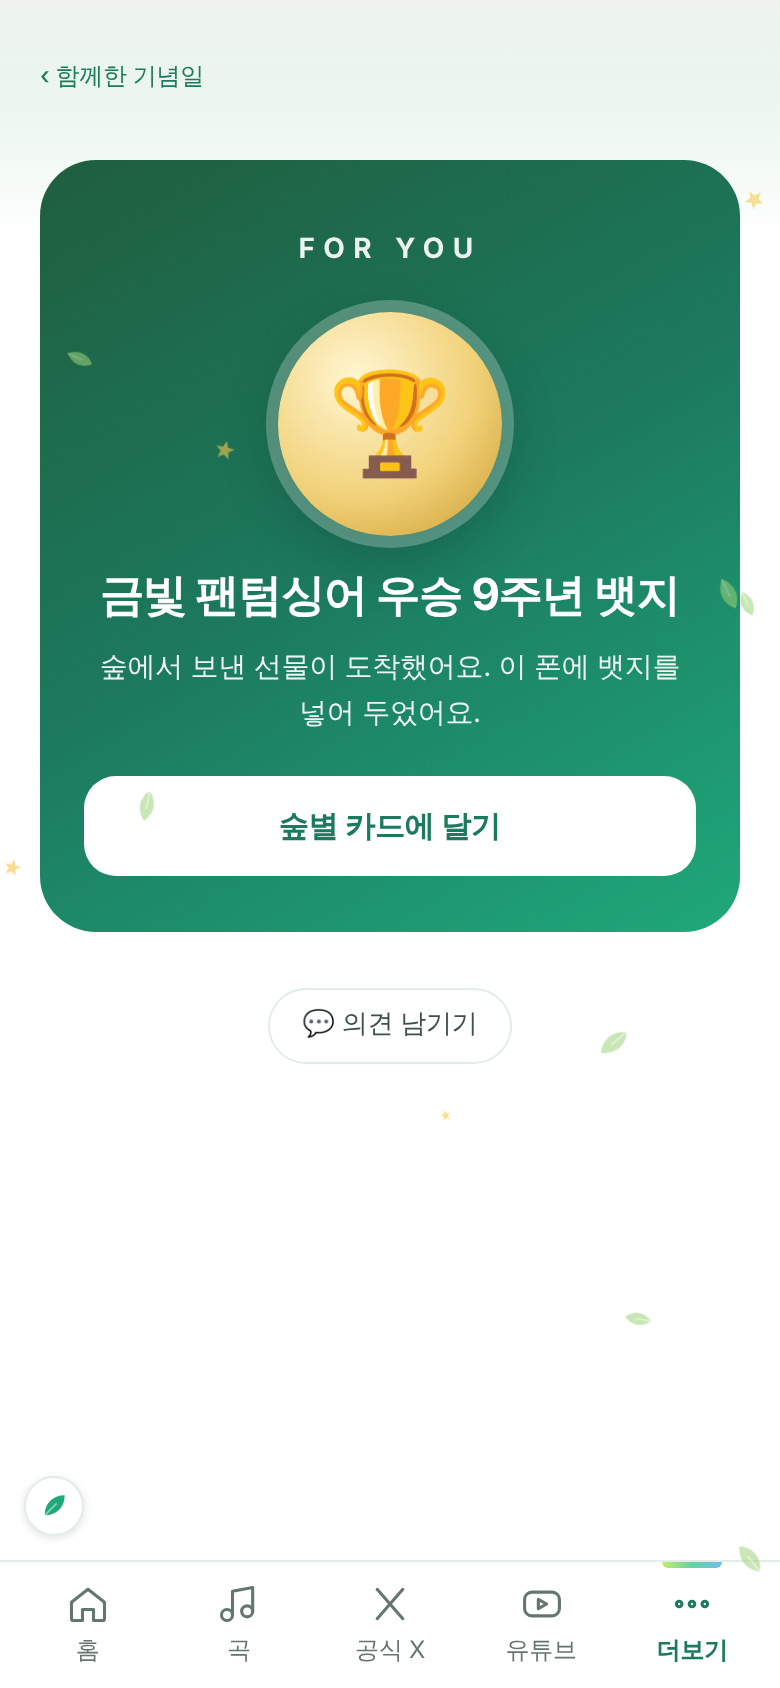
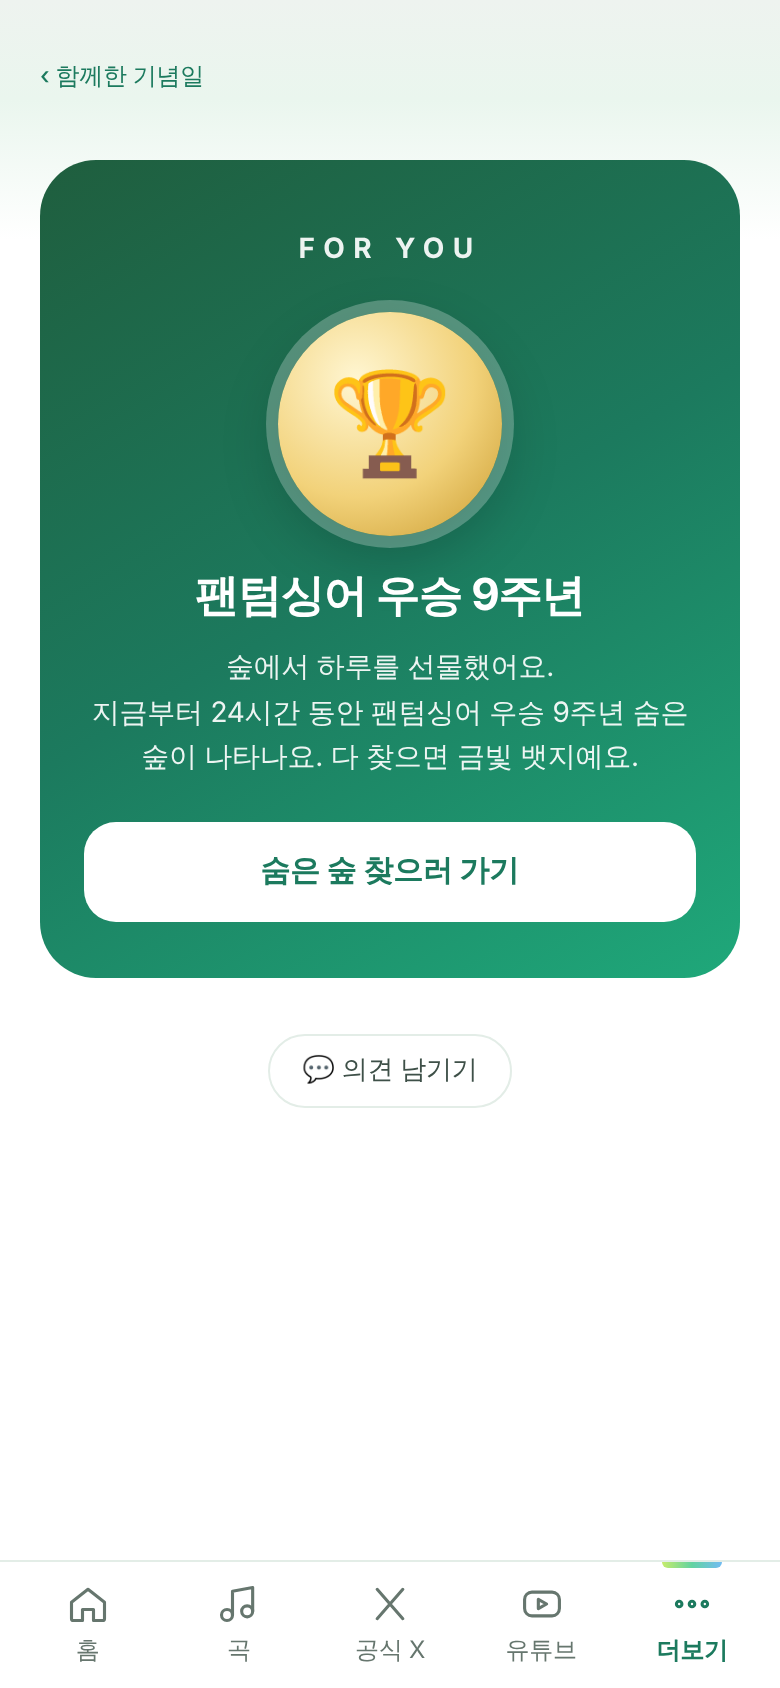
v615: 기념일 하루 더 열어 주는 링크(받은 폰 24시간 숨은 숲), 관리자 버튼은 함께한 기념일 위, 4×4 유형표 이미지 저장
Claude-Session: https://claude.ai/code/session_01MGTh9zKioiZsMkgnkSk7j5

diff --git a/app.js b/app.js
@@ -5231,7 +5231,7 @@
       </section>
       ${tsStatHtml(t)}
       <details class="ts-all"><summary>16가지 유형 모두 보기</summary><ul>${TS_TYPES.map((y, n) => { const bits = [n >> 3 & 1, n >> 2 & 1, n >> 1 & 1, n & 1], me = y === T;
-        return `<li${me ? ' class="me"' : ''}><span class="ts-mini">${bits.map((v, k) => TS_EN[k][v]).join('')}<small>${TS_READ(n)}</small></span><p><b>${y[1]}${me ? ' <em>나</em>' : ''}</b><small>${y[2]}</small></p></li>`; }).join('')}</ul></details>`;
+        return `<li${me ? ' class="me"' : ''}><span class="ts-mini">${bits.map((v, k) => TS_EN[k][v]).join('')}<small>${TS_READ(n)}</small></span><p><b>${y[1]}${me ? ' <em>나</em>' : ''}</b><small>${y[2]}</small></p></li>`; }).join('')}</ul><button type="button" class="mt-sub-btn ts-tbl-save" data-t="${t}"><svg viewBox="0 0 24 24" aria-hidden="true"><rect x="3" y="3" width="18" height="18" rx="2"/><path d="M3 9h18M3 15h18M9 3v18M15 3v18"/></svg>4×4 유형표 이미지 저장</button></details>`;
   }
   // 사분면: 사람마다 점 하나 (지도 2장: 감상×결, 곡×발견). pp = [[답, 색 번호, 이름]]
   const TS_MAPS = [[0, 3], [1, 2]];
@@ -5300,7 +5300,38 @@
     c.textAlign = 'center'; c.fillStyle = '#fff'; c.font = `500 26px ${SANS}`; c.globalAlpha = .75; c.fillText('숲별 기록장 · 취향 테스트', 540, 1312); c.globalAlpha = 1;
     mtSave(cv, '숲별취향지도.png');
   }
+  // 16유형표 4×4 이미지: 줄 = 감상·곡(LO LA SO SA), 칸 = 발견·결(MC MP NC NP), 내 유형은 강조
+  async function tsTableImage(t) {
+    const cv = document.createElement('canvas'); cv.width = 1080; cv.height = 1350; const c = cv.getContext('2d'), SANS = CARD_SANS, TH = mtTheme();
+    try { await Promise.race([document.fonts.load('800 60px "Nanum Myeongjo"'), new Promise(r => setTimeout(r, 1500))]); } catch (err) { /* 기본 글씨 */ }
+    const g = c.createLinearGradient(0, 0, 1080, 1350); g.addColorStop(0, TH.a); g.addColorStop(0.6, TH.b); g.addColorStop(1, TH.c); c.fillStyle = g; c.fillRect(0, 0, 1080, 1350);
+    const st = c.createLinearGradient(0, 0, 1080, 0); st.addColorStop(0, TH.g1); st.addColorStop(0.5, TH.g2); st.addColorStop(1, TH.g3); c.fillStyle = st; c.fillRect(0, 0, 1080, 14);
+    c.textAlign = 'center'; c.fillStyle = '#fff';
+    c.font = `600 32px ${SANS}`; c.globalAlpha = .8; c.fillText('FOREST TASTE TYPES', 540, 90); c.globalAlpha = 1;
+    c.font = `800 64px "Nanum Myeongjo", serif`; c.fillText('숲별 취향 유형 16', 540, 172);
+    const my = t ? tsIdx(t) : -1, L = 146, T0 = 292, W = 212, H = 220, G = 10;
+    const two = (a, b) => `${TS_EN[a[0]][a[1]]}${TS_EN[b[0]][b[1]]}`;
+    c.font = `700 30px ${SANS}`; c.globalAlpha = .9;
+    [0, 1, 2, 3].forEach(j => { c.fillText(two([2, j >> 1], [3, j & 1]), L + j * (W + G) + W / 2, T0 - 26); });
+    c.textAlign = 'right'; [0, 1, 2, 3].forEach(i => { c.fillText(two([0, i >> 1], [1, i & 1]), L - 18, T0 + i * (H + G) + H / 2 + 10); }); c.globalAlpha = 1;
+    const wrap = (txt, max) => { if (c.measureText(txt).width <= max) return [txt]; const w = txt.split(' '); let best = [txt]; for (let k = 1; k < w.length; k++) { const a = w.slice(0, k).join(' '), b = w.slice(k).join(' '); if (Math.max(c.measureText(a).width, c.measureText(b).width) <= max) { best = [a, b]; if (c.measureText(a).width >= c.measureText(b).width) break; } } return best; };
+    for (let n = 0; n < 16; n++) {
+      const i = n >> 2, j = n & 3, x = L + j * (W + G), y = T0 + i * (H + G), me = n === my;
+      c.fillStyle = me ? '#fff' : 'rgba(255,255,255,.9)'; c.beginPath(); c.roundRect(x, y, W, H, 26); c.fill();
+      if (me) { c.strokeStyle = TH.g1; c.lineWidth = 8; c.stroke(); }
+      const code = [n >> 3 & 1, n >> 2 & 1, n >> 1 & 1, n & 1].map((v, k) => TS_EN[k][v]).join('');
+      c.textAlign = 'center'; c.fillStyle = TH.b; c.font = `800 46px ${SANS}`; c.fillText(code, x + W / 2, y + 66);
+      c.fillStyle = '#8A988F'; c.font = `500 22px ${SANS}`; c.fillText(TS_READ(n), x + W / 2, y + 98);
+      c.fillStyle = '#1B2B22'; c.font = `700 25px ${SANS}`; const ln = wrap(TS_TYPES[n][1], W - 28); ln.forEach((s2, k) => c.fillText(s2, x + W / 2, y + 150 + k * 34 - (ln.length - 1) * 10));
+      if (me) { c.fillStyle = TH.b; c.beginPath(); c.roundRect(x + W / 2 - 34, y - 18, 68, 36, 18); c.fill(); c.fillStyle = '#fff'; c.font = `700 22px ${SANS}`; c.fillText('나', x + W / 2, y + 8); }
+    }
+    c.textAlign = 'center'; c.fillStyle = '#fff'; c.font = `500 24px ${SANS}`; c.globalAlpha = .85;
+    c.fillText(TS_AX.map((a, k) => `${TS_EN[k][0]}·${TS_EN[k][1]} ${a[0].replace(/파$/, '')}·${a[1].replace(/파$/, '')}`).join('   '), 540, 1268);
+    c.globalAlpha = .7; c.font = `500 26px ${SANS}`; c.fillText('숲별 기록장 · 취향 테스트', 540, 1318); c.globalAlpha = 1;
+    mtSave(cv, '숲별취향유형표.png');
+  }
   function tsQuadBind() {
+    document.querySelectorAll('.ts-tbl-save').forEach(b => b.onclick = () => tsTableImage(b.dataset.t || ''));
     const so = document.getElementById('ts-st-off');
     if (so) so.onchange = () => { const o = boxRead(TS_KEY) || {}; if (!o.a) return; o.noStat = so.checked; boxWrite(TS_KEY, o); tsSend(so.checked ? '빼기' : o.a); const sec = so.closest('.ts-st'); if (sec) { sec.outerHTML = tsStatHtml(o.a); tsQuadBind(); } };
     document.querySelectorAll('.ts-code').forEach(cd => cd.onclick = ev => {
@@ -5576,35 +5607,36 @@
       const a = document.createElement('a'); a.href = URL.createObjectURL(b); a.download = file.name; document.body.appendChild(a); a.click(); setTimeout(() => { URL.revokeObjectURL(a.href); a.remove(); }, 1000); toast('이미지를 저장했어요'); }, 'image/png');
   }
 
-  // 금빛 뱃지 선물: 관리자가 서명한 링크(#/gift?k=기념키&e=만료&s=서명)를 연 폰에 금빛 뱃지를 넣어요. 링크는 하루만 열려요
+  // 기념일 하루 더: 관리자가 서명한 링크(#/gift?k=기념키&e=만료&s=서명)를 연 폰은 24시간 동안 그 기념일처럼 숨은 숲이 나와요 (링크는 만든 뒤 하루 안에, 폰마다 한 번)
   const giftMsg = (k, e) => new TextEncoder().encode(`gift:${k}:${e}`);
   const annivByKey = k => { const m = /^an-(\d\d)(\d\d)-(\d{4})$/.exec(k || ''); if (!m) return null; const A = ANNIVS.find(x => x[0] === `${m[1]}-${m[2]}`); if (!A) return null; const y = +m[3], n = A[1] ? y - A[1] : 0;
-    return { k, d: `${y}-${m[1]}-${m[2]}`, ic: A[3], name: A[1] ? `${A[2] === '데뷔' || A[2] === '결성' ? '포레스텔라 ' + A[2] : A[2]} ${n}주년` : A[2] }; };
+    return { k, d: `${y}-${m[1]}-${m[2]}`, ic: A[3], since: A[1] ? `${A[1]}.${m[1]}.${m[2]}` : '', name: A[1] ? `${A[2] === '데뷔' || A[2] === '결성' ? '포레스텔라 ' + A[2] : A[2]} ${n}주년` : A[2] }; };
   async function giftLink(k) {
     const key = await crypto.subtle.importKey('jwk', { ...adminJwk(), kty: 'EC', crv: 'P-256', ext: true }, ECDSA, false, ['sign']);
     const e = String(Date.now() + 864e5), sg = b64u(await crypto.subtle.sign(SIGN, key, giftMsg(k, e)));
     return location.origin + location.pathname + `#/gift?k=${k}&e=${e}&s=${sg}`;
   }
   function giftView() { return `<a class="back" href="#/days">‹ 함께한 기념일</a><section class="gift-box" id="gift-box"><p class="empty">선물 상자를 여는 중…</p></section>`; }
-  const giftJust = new Set();  // 이번에 막 받은 선물 (화면이 두 번 그려져도 '도착했어요'로)
-  async function giftCheck() {
+    async function giftCheck() {
     const box = document.getElementById('gift-box'); if (!box) return;
     const q = new URLSearchParams(location.hash.split('?')[1] || ''), k = q.get('k'), e = q.get('e') || '', sg = q.get('s') || '', A = annivByKey(k);
     let ok = false;
     try { if (A && /^\d+$/.test(e) && crypto.subtle) for (const c of adminKeys()) { const pub = await crypto.subtle.importKey('jwk', { kty: 'EC', crv: 'P-256', x: c.x, y: c.y, ext: true }, ECDSA, false, ['verify']); if (await crypto.subtle.verify(SIGN, pub, unb64u(sg), giftMsg(k, e))) { ok = true; break; } } } catch (err) { ok = false; }
-    const o = anvStore(), had = !!(o.bdg && o.bdg[k] && o.bdg[k].gold);
-    if (!ok) { box.innerHTML = `<p class="empty">선물 링크가 올바르지 않아요.</p>`; return; }
-    if (!had && +e < Date.now()) { box.innerHTML = `<p class="empty">선물 링크가 만료됐어요. 보내 준 분께 새 링크를 부탁해 주세요.</p>`; return; }
-    if (!had) giftJust.add(k);
-    if (!had) { o.bdg = { ...(o.bdg || {}), [k]: { ...((o.bdg || {})[k] || {}), ic: A.ic, name: A.name, d: A.d, gold: 1, gift: 1 } }; anvSave(o); }
-    box.innerHTML = `<div class="gift-card"><p class="gift-k">FOR YOU</p><div class="gift-badge">${A.ic}</div><h1>금빛 ${esc(A.name)} 뱃지</h1>
-      <p>${had && !giftJust.has(k) ? '이미 이 폰에 있는 뱃지예요.' : '숲에서 보낸 선물이 도착했어요. 이 폰에 뱃지를 넣어 두었어요.'}</p>
-      <a class="mt-go" href="#/card">숲별 카드에 달기</a></div>`;
+    if (!ok) { box.innerHTML = `<p class="empty">링크가 올바르지 않아요.</p>`; return; }
+    const o = anvStore(), r = o.replay, now = Date.now(), gold = !!(o.bdg && o.bdg[k] && o.bdg[k].gold);
+    const go = `<a class="mt-go" href="#/">숨은 숲 찾으러 가기</a>`, card = t => `<div class="gift-card"><p class="gift-k">FOR YOU</p><div class="gift-badge">${A.ic}</div><h1>${esc(A.name)}</h1>${t}</div>`;
+    if (gold) { box.innerHTML = card(`<p>이미 금빛 뱃지를 모았어요.</p><a class="mt-go" href="#/card">숲별 카드 보기</a>`); return; }
+    if (r && r.k === k && r.until > now) { box.innerHTML = card(`<p>오늘은 ${esc(A.name)} 숨은 숲이 나타나는 날이에요.<br>${new Date(r.until).toLocaleString('ko-KR', { month: 'numeric', day: 'numeric', hour: 'numeric', minute: '2-digit' })}까지 찾을 수 있어요.</p>${go}`); return; }
+    if ((o.replayed || {})[k]) { box.innerHTML = card(`<p>이미 한 번 열린 링크예요.</p>`); return; }
+    if (+e < now) { box.innerHTML = card(`<p>링크가 만료됐어요. 보내 준 분께 새 링크를 부탁해 주세요.</p>`); return; }
+    o.replay = { k, until: now + 864e5 }; o.replayed = { ...(o.replayed || {}), [k]: now }; o.seen = ''; anvSave(o);
+    box.innerHTML = card(`<p>숲에서 하루를 선물했어요.<br>지금부터 24시간 동안 ${esc(A.name)} 숨은 숲이 나타나요. 다 찾으면 금빛 뱃지예요.</p><a class="mt-go" href="#/" id="gift-go">숨은 숲 찾으러 가기</a>`);
+    const g = document.getElementById('gift-go'); if (g) g.onclick = ev => { ev.preventDefault(); location.replace(location.pathname + '#/'); location.reload(); };
   }
   document.addEventListener('click', async ev => {
     const b = ev.target.closest('.gift-make'); if (!b || !isAdmin()) return;
     b.disabled = true;
-    try { share(`🎁 숲별 기록장 선물이에요 (하루 안에 열어 주세요)`, await giftLink(b.dataset.k)); } catch (err) { toast('선물 링크를 만들지 못했어요'); }
+    try { share(`🎁 숲별 기록장에서 보내는 선물이에요 (하루 안에 열어 주세요)`, await giftLink(b.dataset.k)); } catch (err) { toast('선물 링크를 만들지 못했어요'); }
     b.disabled = false;
   });
   const routes = {
@@ -7998,7 +8030,8 @@
         <p>이 폰에 자동으로 모여요. 기념일에 들르면 여기에 남아요.</p>
       </div>
       <div class="dy-hero">${card.since ? `<small>포레스텔라와 함께한 지</small><b>D+${ddayOf(card.since).toLocaleString()}</b>` : `<small>숲별 기록장과 함께한 지</small><b>${fd}일</b>`}${annivToday() ? `<span>오늘은 ${esc(annivToday().name)}</span>${cheerBtn(annivToday())}` : ''}</div>
-      ${(() => { const q = (new URLSearchParams(location.hash.split('?')[1] || '').get('m') || '').replace(/^(\d\d)(\d\d)$/, '$1-$2'); const md = q || (annivToday() && !annivToday().my ? today.slice(5) : ''); return md ? annivMemory(md) : ''; })()}
+      ${(() => { const q = (new URLSearchParams(location.hash.split('?')[1] || '').get('m') || '').replace(/^(\d\d)(\d\d)$/, '$1-$2'); const A = annivToday(), md = q || (A && !A.my ? A.d.slice(5) : ''); return md ? annivMemory(md) : ''; })()}
+      ${isAdmin() ? (() => { const y = +today.slice(0, 4), rec = ANNIVS.map(x => [`${y}-${x[0]}`, x]).filter(([d]) => d <= today && ds(d, today) <= 30); return rec.length ? `<section class="mg"><h2 class="mg-h">🎁 기념일 하루 더 열어 주기 <small>관리자만 보여요</small></h2><p class="mt-sub">링크를 받은 폰은 24시간 동안 그 기념일처럼 숨은 숲이 나와요. 링크는 만든 뒤 하루 안에 열어야 하고, 폰마다 한 번만 돼요.</p>${rec.map(([d, x]) => `<button type="button" class="mt-sub-btn gift-make" data-k="an-${x[0].replace('-', '')}-${y}">${x[3]} ${dot(d)} ${esc(x[2])} 링크 만들기</button>`).join('')}</section>` : ''; })() : ''}
       <section class="mg"><h2 class="mg-h">나의 기념일</h2><div class="dy-list">${mine.map(x => x[1]).join('')}</div></section>
       <section class="mg"><h2 class="mg-h">포레스텔라 기념일</h2><div class="dy-list">${group.map(x => x[1]).join('')}</div></section>`;
   }
@@ -8021,9 +8054,7 @@
     const xs = M.m ? (data.xFeed || []).filter(p => p.cat === '생일' && p.m.includes(M.m)).sort((a, b) => b.date.localeCompare(a.date)).slice(0, 4) : [];
     // 그해 그날 마지막까지 함께 축하한 숲별 수 (기능 생긴 2026년부터, 지난 날·오늘만)
     const cheers = []; for (let y = +todayIso().slice(0, 4); y >= 2026; y--) { const d = `${y}-${md}`; if (d > todayIso()) continue; const n = anvCheerN(`an-${md.replace('-', '')}-${y}`); if (n) cheers.push(`<div class="dy-row"><span class="dy-ic">${A[3]}</span><span class="dy-t"><b>${y}${A[1] ? ` · ${y - A[1]}주년` : ''}</b><small>${d === todayIso() ? '오늘 지금까지' : '그날'} <b>${n.toLocaleString()}명</b>이 함께 축하했어요</small></span></div>`); }
-    const gy = (() => { for (let y = +todayIso().slice(0, 4); y >= 2026; y--) if (`${y}-${md}` <= todayIso()) return y; return 0; })();
-    const gift = isAdmin() && gy ? `<button type="button" class="mt-sub-btn gift-make" data-k="an-${md.replace('-', '')}-${gy}">🎁 ${gy} 금빛 뱃지 선물 링크 만들기 <small>관리자만 보여요</small></button>` : '';
-    const html = sec('함께 축하한 숲별', cheers.join('') + gift)
+    const html = sec('함께 축하한 숲별', cheers.join(''))
       + sec('그날의 기록', evs.map(e => `<a class="box-ev" href="#/e/${encodeURIComponent(e.id)}"><span>${fmtDate(e.date, false)}</span><b>${esc(e.title)}</b></a>`).join(''))
       + sec(M.evq ? '결승 무대 곡' : '그때 부른 곡', songs.length ? `<div class="chips wrap">${songs.map(so => `<a class="chip" href="#/song/${encodeURIComponent(so.key)}">${esc(so.name)}</a>`).join('')}</div>` : '')
       + sec('영상', vids.length ? `<div class="stack x-list">${vids.map(ytCard).join('')}</div>` : '')
@@ -8039,7 +8070,7 @@
     const d = todayIso(), a = ANNIVS.find(x => x[0] === d.slice(5));
     const sc = ((typeof card !== 'undefined' && card.since) || '').slice(0, 10);
     if (!a && sc && sc.slice(5) === d.slice(5) && sc < d) { const n = +d.slice(0, 4) - +sc.slice(0, 4); return { d, ic: '🌱', name: `입덕 ${n}주년`, since: sc.replace(/-/g, '.'), k: 'an-my-' + d.slice(0, 4), my: true }; }
-    if (!a) return null;
+    if (!a) { const r = anvStore().replay, B = r && r.until > Date.now() && annivByKey(r.k); return B || null; }
     const y = +d.slice(0, 4), n = a[1] ? y - a[1] : 0;
     const name = a[1] ? `${a[2] === '데뷔' || a[2] === '결성' ? '포레스텔라 ' + a[2] : a[2]} ${n}주년` : a[2];
     return { d, ic: a[3], name, since: a[1] ? `${a[1]}.${a[0].replace('-', '.')}` : '', k: 'an-' + a[0].replace('-', '') + '-' + y };

diff --git a/index.html b/index.html
@@ -23,7 +23,7 @@
 <link href="https://fonts.googleapis.com/css2?family=Gowun+Batang:wght@400;700&display=swap" rel="stylesheet">
 <link rel="stylesheet" href="https://cdn.jsdelivr.net/gh/orioncactus/pretendard@v1.3.9/dist/web/variable/pretendardvariable-dynamic-subset.min.css">
 <script>try{var d=JSON.parse(localStorage.getItem('sb-deco')||'{}');if(d.t)document.documentElement.dataset.theme=d.t;if(d.f)document.documentElement.dataset.fs=d.f}catch(e){}</script>
-<link rel="stylesheet" href="style.css?v=614">
+<link rel="stylesheet" href="style.css?v=615">
 </head>
 <body>
 <div class="app">
@@ -46,9 +46,9 @@
 <!-- 방문자 수 (GoatCounter: 쿠키·개인정보 없이 화면별 방문 수만 세요) -->
 <script data-goatcounter="https://soopbyeol.goatcounter.com/count" data-goatcounter-settings='{"no_onload": true}' async src="https://gc.zgo.at/count.js"></script>
 <script src="lib/fuse.min.js"></script>
-<script src="i18n.js?v=614"></script>
-<script src="config.js?v=614"></script>
-<script src="data.js?v=614"></script>
-<script src="app.js?v=614"></script>
+<script src="i18n.js?v=615"></script>
+<script src="config.js?v=615"></script>
+<script src="data.js?v=615"></script>
+<script src="app.js?v=615"></script>
 </body>
 </html>

diff --git a/sw.js b/sw.js
@@ -1,6 +1,6 @@
 // 한 번 연 화면 파일을 저장해 두고, 다음부터 빨리 열거나 인터넷이 없을 때 써요.
 // 시트 데이터는 data.js가 따로 저장하니까 여기서는 사이트 파일만 다뤄요.
-const CACHE = 'soopbyeol-v614';
+const CACHE = 'soopbyeol-v615';
 const SHELL = ['./', 'index.html', 'style.css?v=162', 'config.js?v=162', 'data.js?v=162', 'app.js?v=162', 'lib/fuse.min.js', 'manifest.webmanifest', 'icons/icon-192.png'];
 
 self.addEventListener('install', ev => {

diff --git a/style.css b/style.css
@@ -2199,3 +2199,4 @@ a.wt-yes { display: flex; align-items: center; text-decoration: none; }
 .gift-card .mt-go { background: #fff; color: var(--green); }
 .gift-make { margin-top: 10px; width: 100%; justify-content: center; }
 .gift-make small { font-size: 11px; opacity: .7; margin-left: 4px; }
+.ts-tbl-save { margin: 0 auto 14px; display: flex; }
